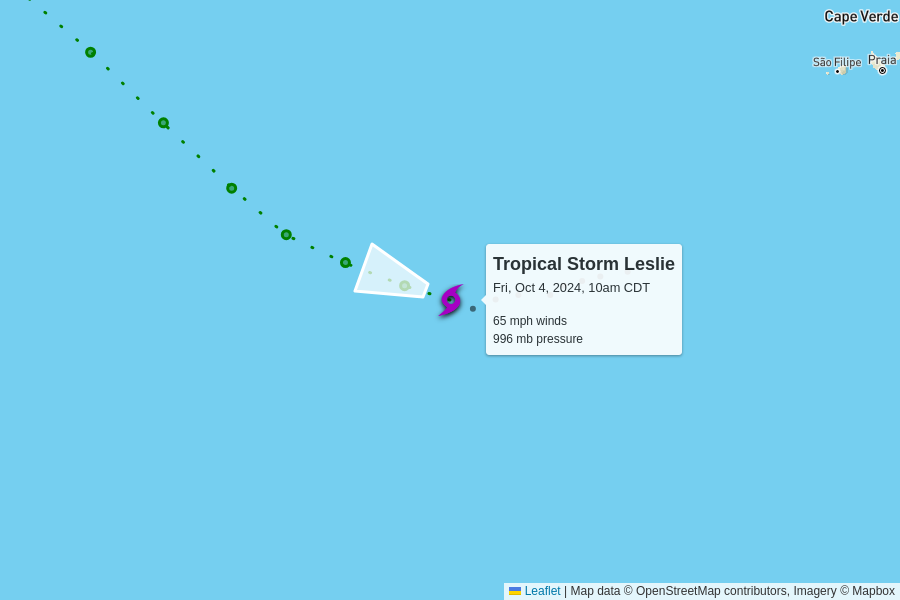
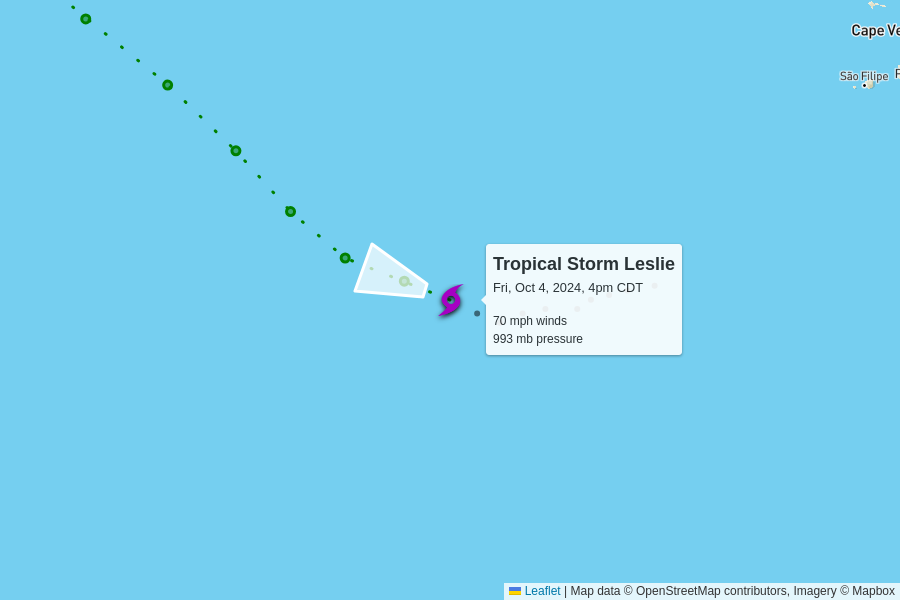
automatic update

diff --git a/docs/index.html b/docs/index.html
@@ -104,7 +104,7 @@
         <td colspan="6" class="storm category-4" >
           <h2>
             Hurricane Kirk - Category 4
-            <p class="updated">last updated <span data-time>2024-10-04T15:00:00.000Z</span></p>
+            <p class="updated">last updated <span data-time>2024-10-04T21:00:00.000Z</span></p>
           </h2>
         </td>
       </tr>
@@ -119,12 +119,12 @@
       </tr>
       <tr>
         <td class="spacer"></td>
-        <td>140 mph<br>-5 mph since last update</td>
-        <td>939 mb<br>+5 mb since last update</td>
+        <td>130 mph<br>-10 mph since last update</td>
+        <td>943 mb<br>+4 mb since last update</td>
         <td>
           12 mph to the northwest
           <br/>
-          <span style="display: inline-block; font-size: 1.5em; transform: rotate(315deg);">↑</span>
+          <span style="display: inline-block; font-size: 1.5em; transform: rotate(325deg);">↑</span>
         </td>
         <td><a href="https://raw.githubusercontent.com/mgwalker/atlantic-hurricanes/main/data/csv/AL122024.csv">AL122024.csv</a></td>
         <td><a href="https://www.nhc.noaa.gov/archive/2024/KIRK.shtml?">NHC advisories</a></td>
@@ -148,7 +148,7 @@
         <td colspan="6" class="storm category-0" >
           <h2>
             Tropical Storm Leslie
-            <p class="updated">last updated <span data-time>2024-10-04T15:00:00.000Z</span></p>
+            <p class="updated">last updated <span data-time>2024-10-04T21:00:00.000Z</span></p>
           </h2>
         </td>
       </tr>
@@ -163,8 +163,8 @@
       </tr>
       <tr>
         <td class="spacer"></td>
-        <td>65 mph<br>+5 mph since last update</td>
-        <td>996 mb<br>-1 mb since last update</td>
+        <td>70 mph<br>+5 mph since last update</td>
+        <td>993 mb<br>-3 mb since last update</td>
         <td>
           7 mph to the west-northwest
           <br/>
